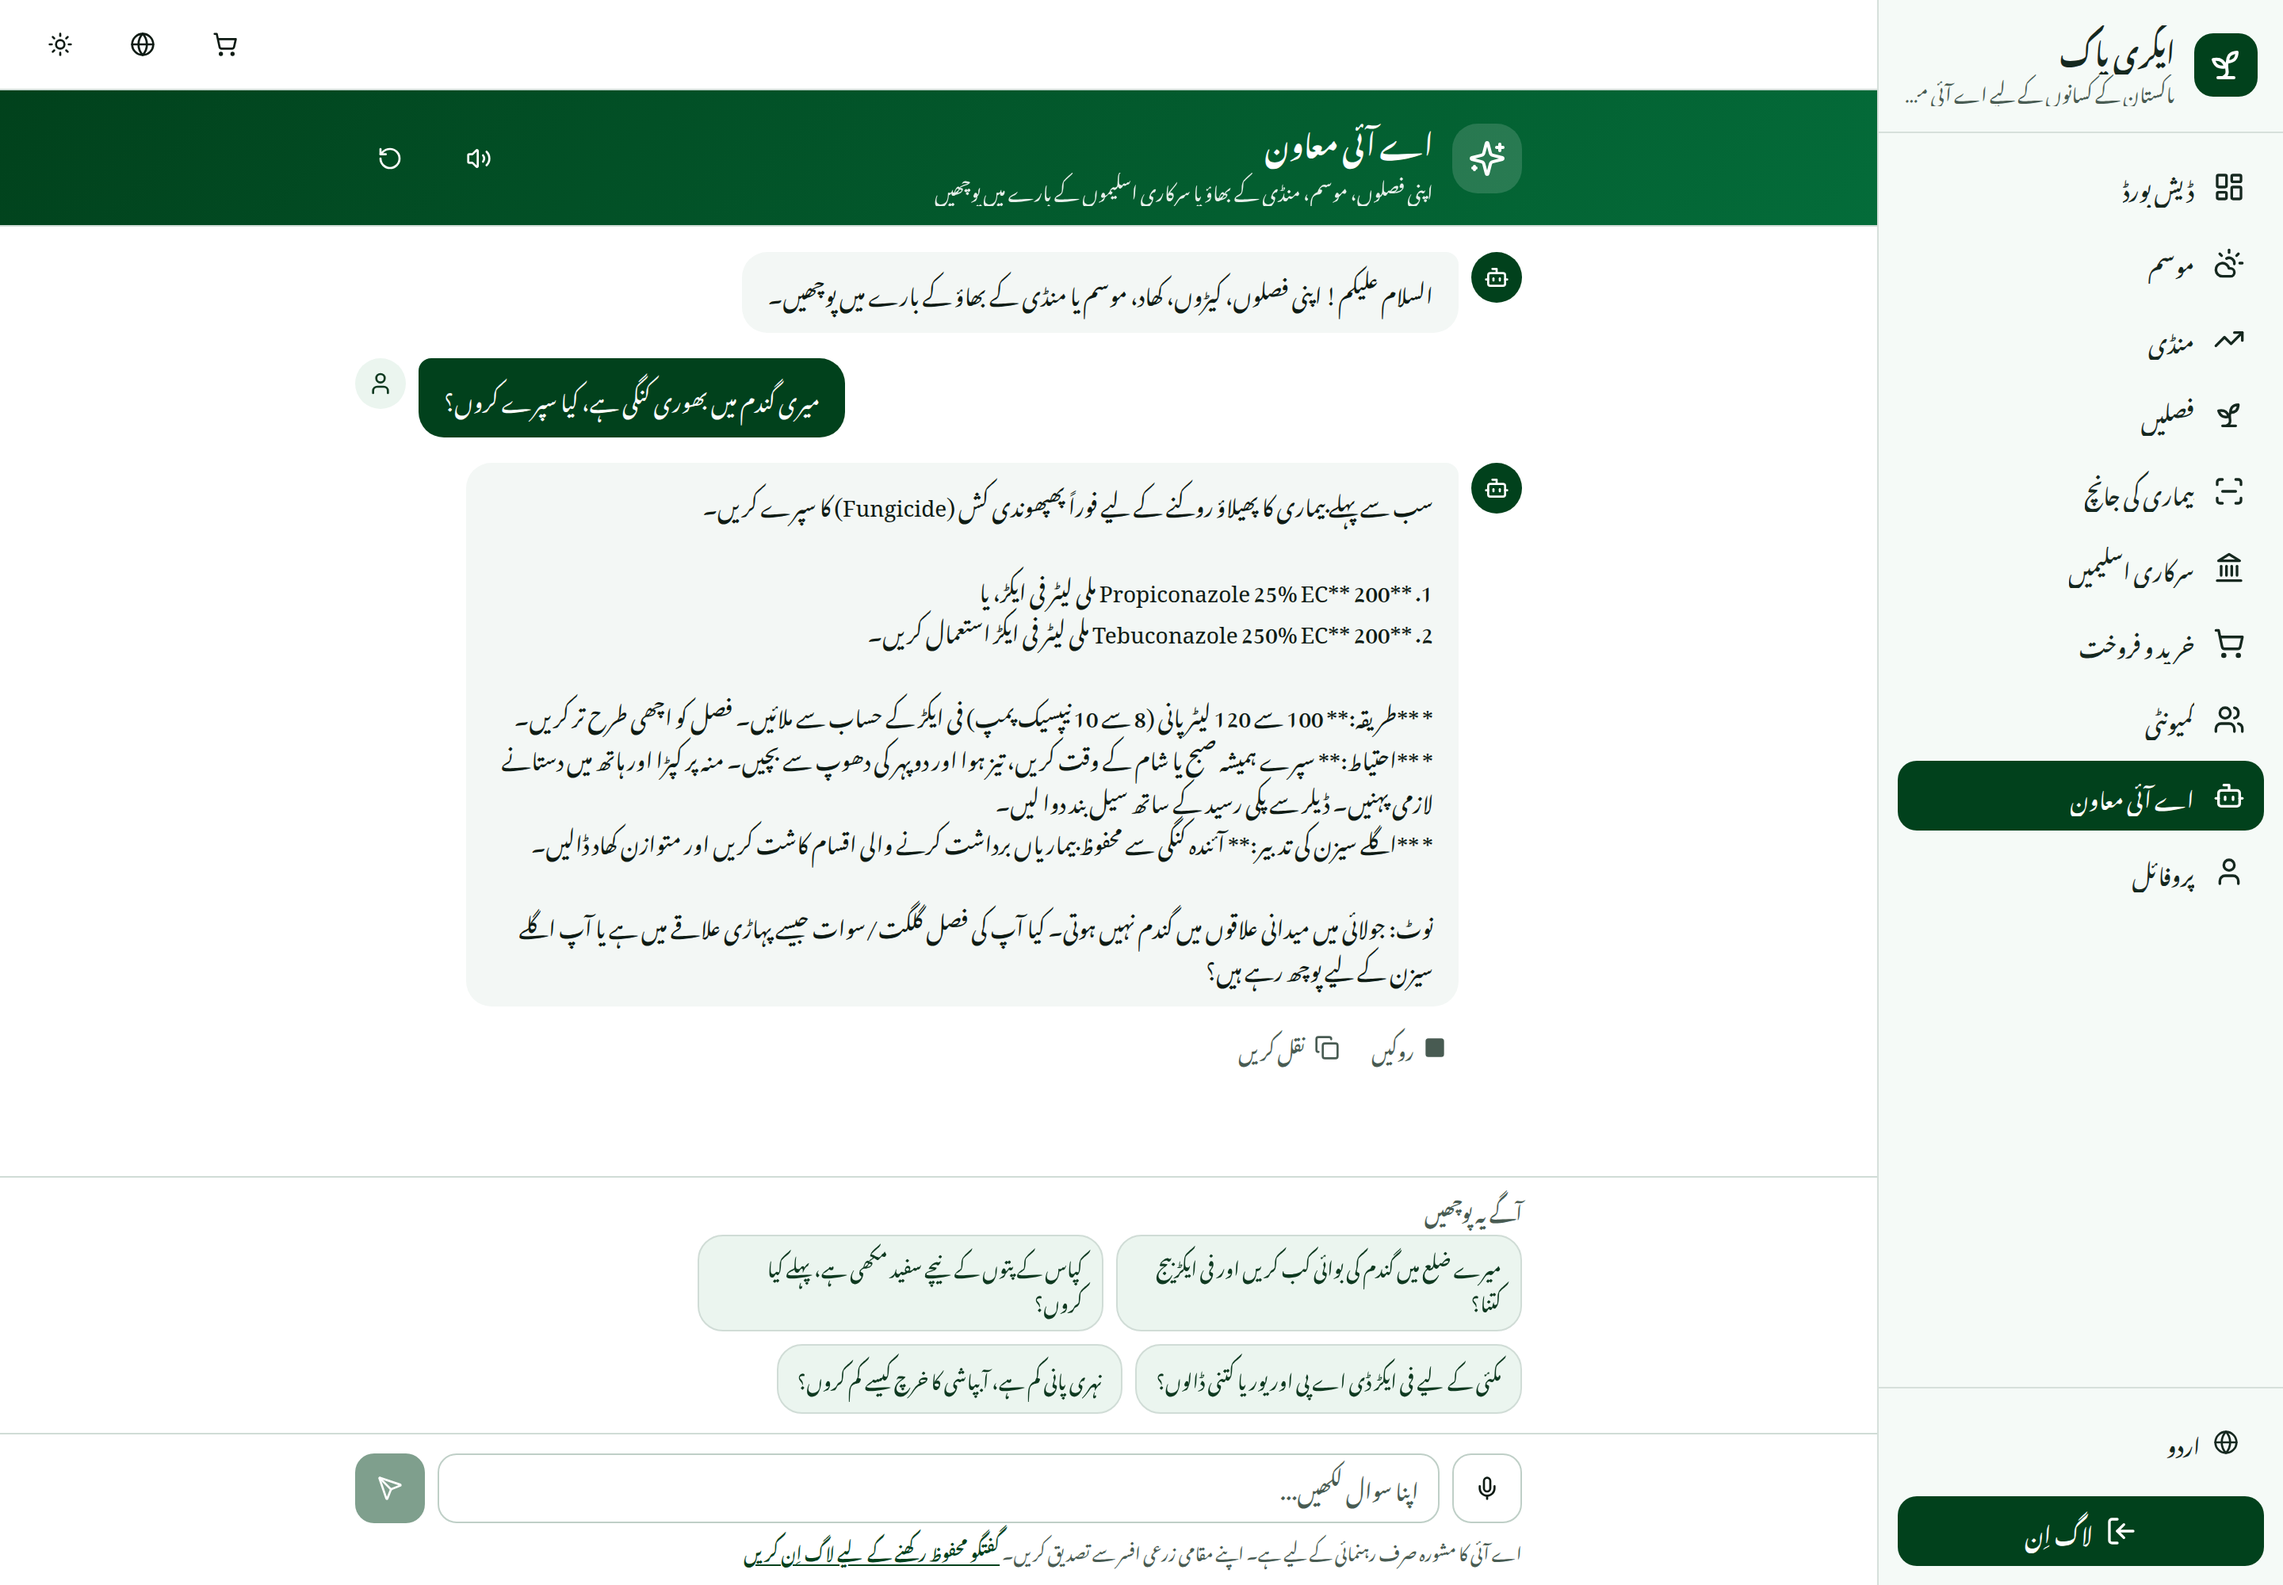
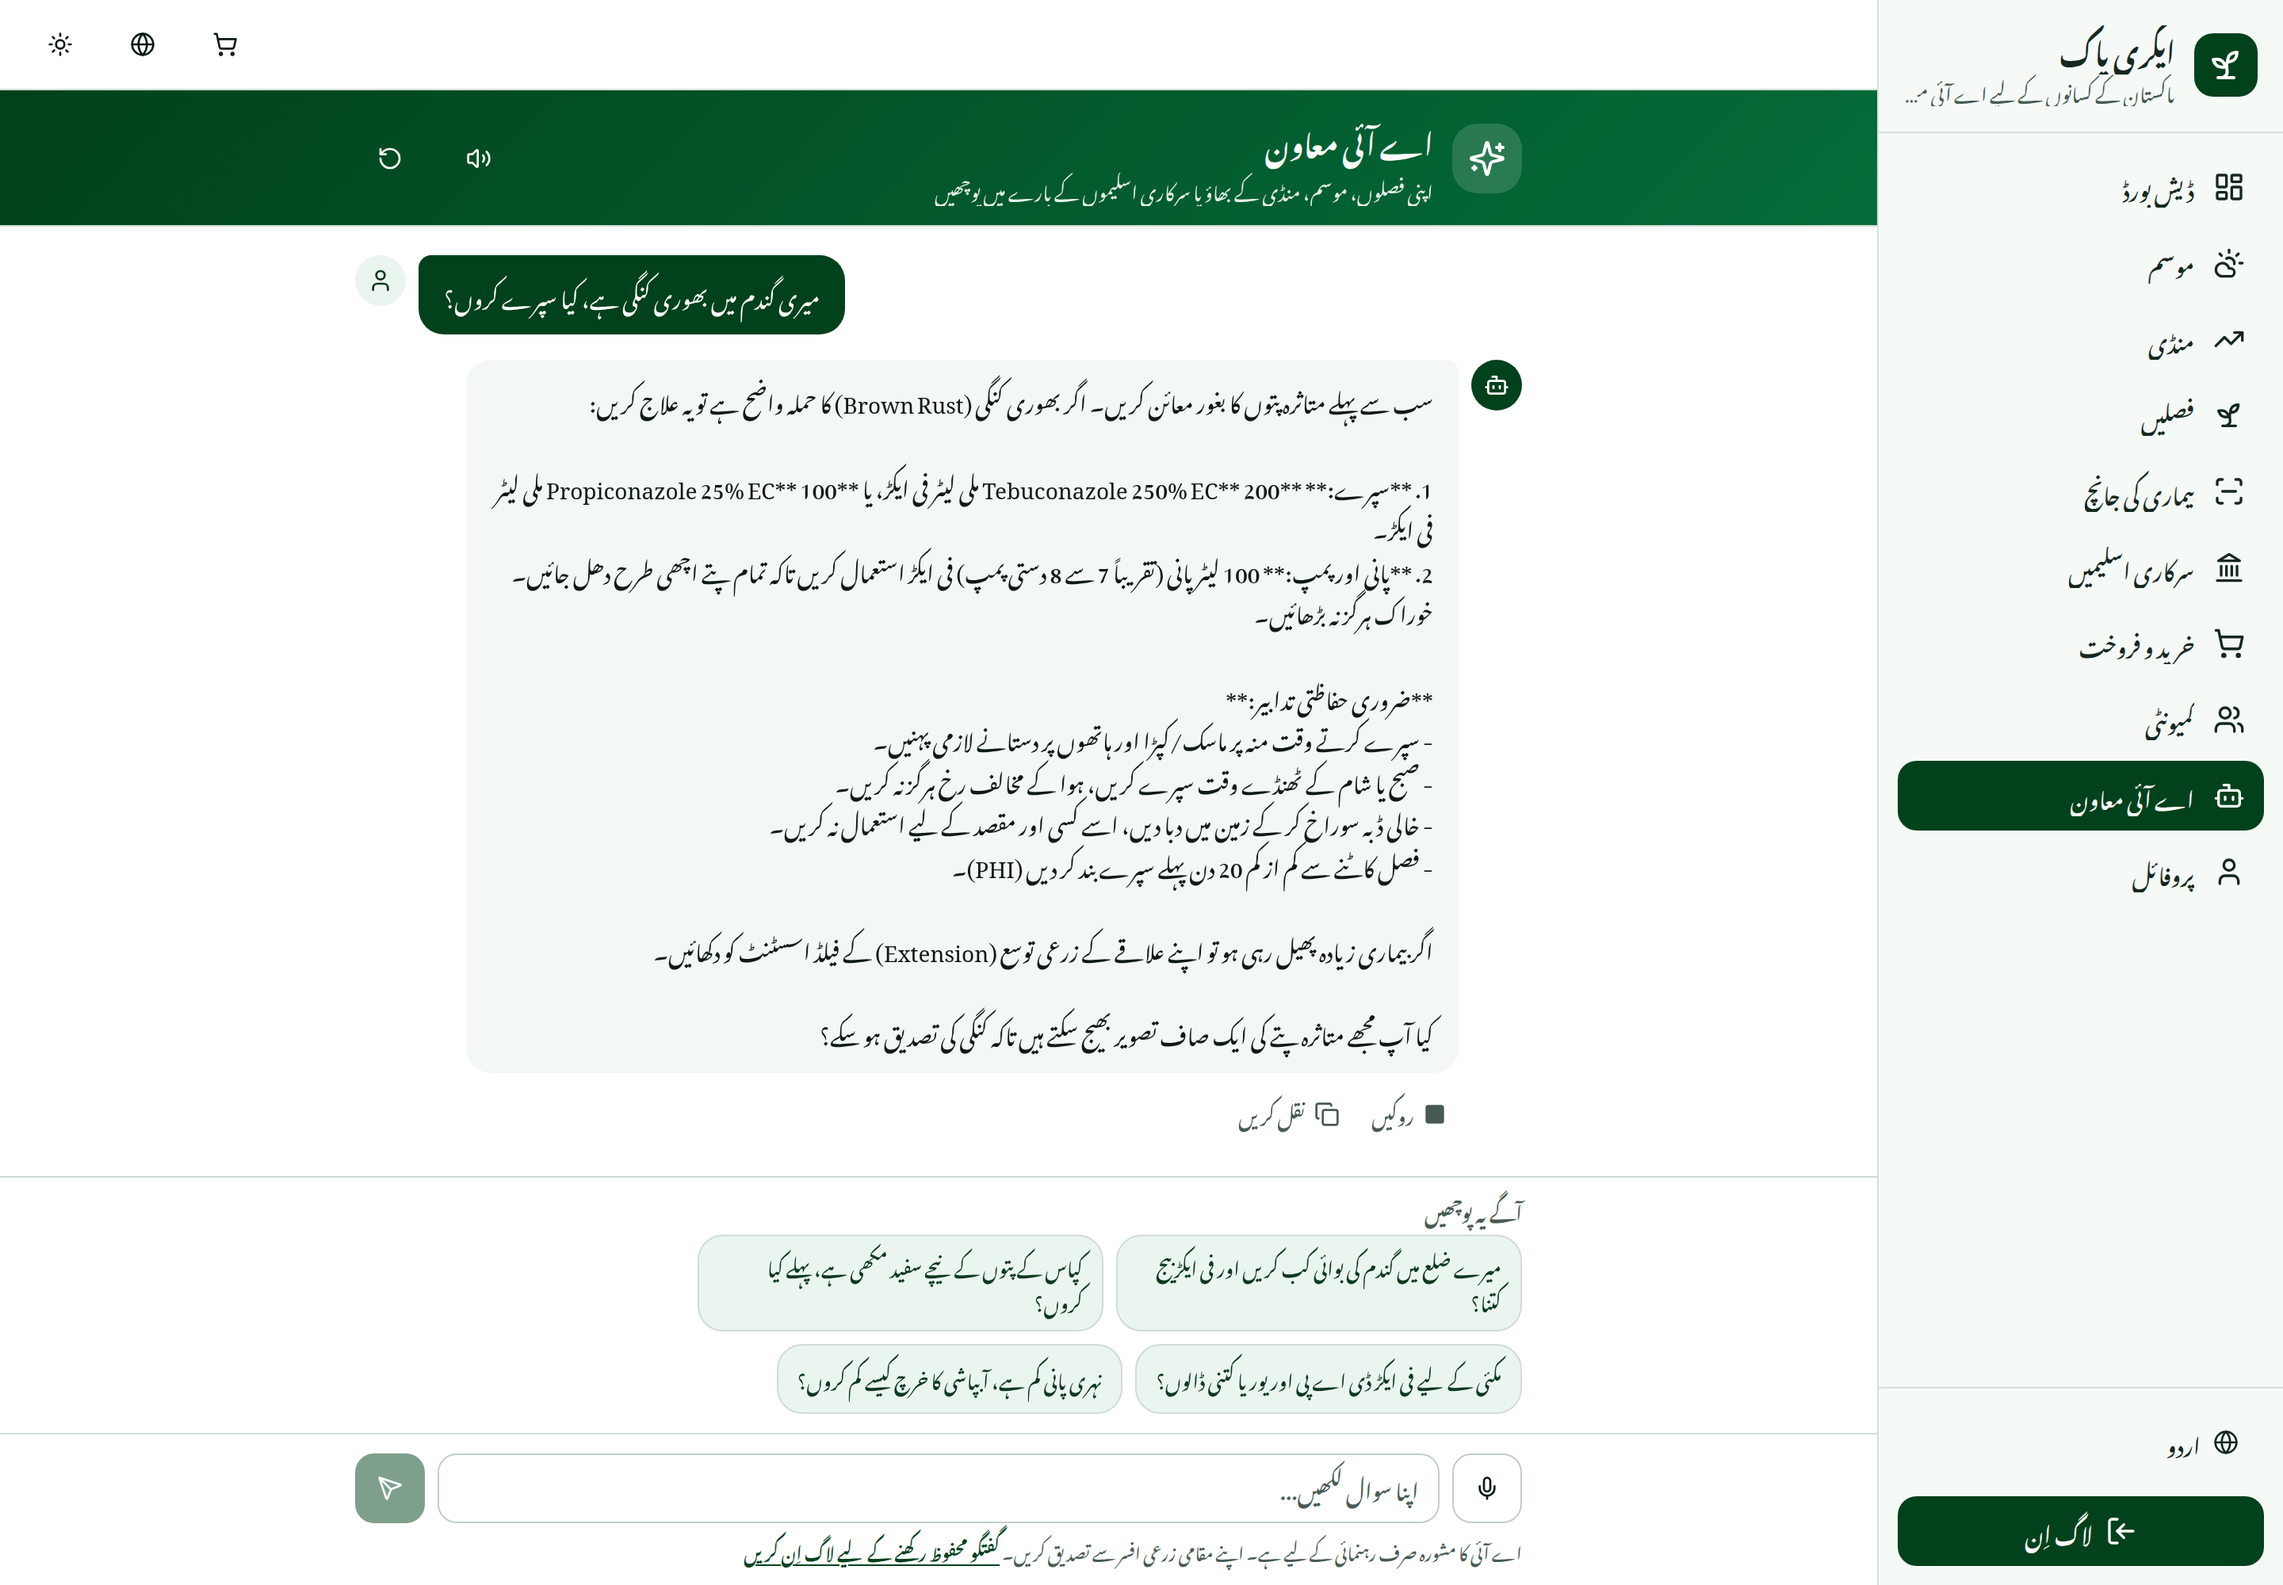
README: live URL, demo credentials and screenshots from the deployment

diff --git a/README.md b/README.md
@@ -4,8 +4,12 @@
 Ask a question in Urdu, photograph a sick leaf, check today's real mandi rate, and find the
 government scheme you actually qualify for — from a cheap Android phone, in your own language.
 
-> 🔗 **Live app:** _(deployed URL goes here)_
-> 📦 **Repository:** _(public GitHub URL goes here)_
+> ### 🔗 **Live app: https://agripak.vercel.app**
+> 📦 **Repository:** https://github.com/amna-std/agripak
+>
+> Try it with the demo account — mobile **`03001234567`**, password **`password123`** —
+> or register your own. Switch to **اردو** with the globe icon to see the whole interface
+> flip right-to-left.
 
 ---
 
@@ -192,7 +196,39 @@ Every diagnosis ships with a disclaimer that it is a reading of a photograph, no
 
 ## 5. Screenshots
 
-_(added after deployment)_
+All captured from the live deployment.
+
+### The landing page
+![AgriPak landing page](docs/screenshots/01-landing.png)
+
+### Dashboard — live weather, real advice, prices near you
+Everything here is fetched, not mocked: current conditions for the farmer's own district, the
+day's advisory derived from the actual forecast, mandi rates and schemes they qualify for.
+![Dashboard](docs/screenshots/02-dashboard.png)
+
+### 📷 Crop disease diagnosis from a photograph
+The flagship feature. A photo of a rust-infected wheat leaf returns the disease with its local
+Urdu name (**بھوری کنگی**), a calibrated confidence, a cultural step *before* any chemical, a
+named product with a per-acre dose and cost, safety instructions, organic alternatives, the
+alternative diagnoses it considered and how to tell them apart, and when to stop and call a
+human.
+![Crop disease diagnosis](docs/screenshots/03-crop-scan.png)
+
+### Market prices — two sources, never blended
+Wholesale mandi rates and retail bazaar prices are labelled separately, each with its provider
+badge, in PKR per 100 kg and per maund.
+![Market prices](docs/screenshots/04-market.png)
+
+### Government schemes
+Real Pakistani schemes with verified figures, eligibility, required documents and official links.
+![Government schemes](docs/screenshots/07-schemes.png)
+
+### اردو — right-to-left on a phone
+The entire interface mirrors, in Nastaliq, at phone width. Not English text in a flipped box.
+<img src="docs/screenshots/05-urdu-mobile.png" alt="Urdu right-to-left on mobile" width="380"/>
+
+### The assistant answering in Urdu
+![AI assistant in Urdu](docs/screenshots/06-ai-urdu.png)
 
 ---
 
